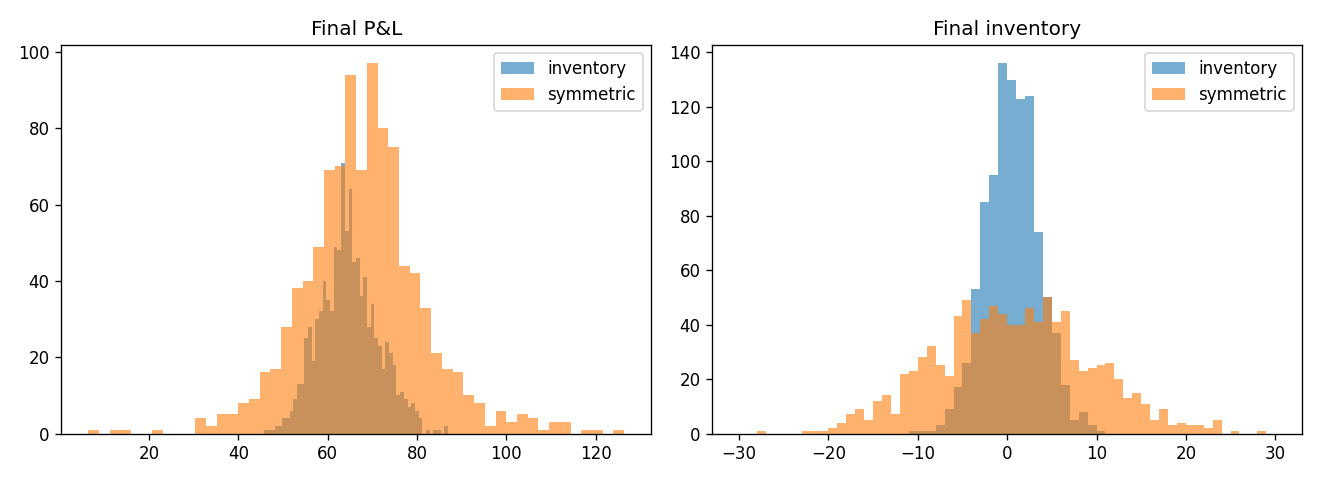
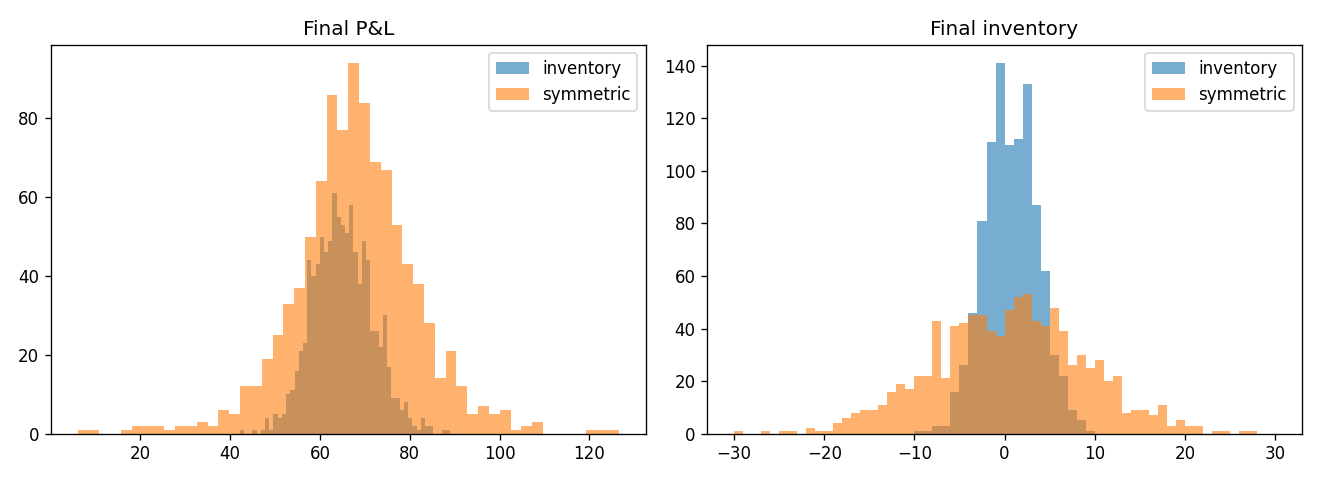
Add inventory path plot and update README results

diff --git a/avellaneda_stoikov/simulate.py b/avellaneda_stoikov/simulate.py
@@ -16,16 +16,18 @@ class SessionResult:
     n_trades: int
     avg_spread: float
     max_abs_q: int
+    q_path: list[int] | None = None
 
 # Simulates one session. Each step: (1) get our bid and ask from the strategy,
 # (2) roll for a fill on each side using fill_probability, (3) a bid fill buys one
 # (cash down, inventory +1) and an ask fill sells one (cash up, inventory -1),
 # (4) move the mid price by a random Brownian step. Final P&L is cash plus
 # inventory valued at the last mid price.
-def run_session(strategy: Strategy, p: Params, rng: np.random.Generator,max_inventory: int | None = None) -> SessionResult:
+def run_session(strategy: Strategy, p: Params, rng: np.random.Generator,max_inventory: int | None = None, record_path: bool = False) -> SessionResult:
     s, x, q = p.s0, 0.0, 0
     n_trades, spread_sum = 0, 0.0
     max_abs_q= 0
+    q_path: list[int] | None = [] if record_path else None
     for i in range(p.n_steps):
         t = i * p.dt
         bid, ask = strategy.quotes(s, q, t, p)
@@ -44,11 +46,13 @@ def run_session(strategy: Strategy, p: Params, rng: np.random.Generator,max_inve
                 x += ask
                 n_trades += 1
         max_abs_q = max(max_abs_q, abs(q))
+        if q_path is not None:
+            q_path.append(q)
         # Price moves after quotes are set (arithmetic Brownian motion, no drift).
         s += p.sigma * math.sqrt(p.dt) * rng.standard_normal()
 
 
-    return SessionResult(pnl=x + q * s, final_q=q, n_trades=n_trades,max_abs_q= max_abs_q,avg_spread=spread_sum / p.n_steps)
+    return SessionResult(pnl=x + q * s, final_q=q, n_trades=n_trades,max_abs_q= max_abs_q,avg_spread=spread_sum / p.n_steps, q_path=q_path)
 
 
 def run_many(strategy: Strategy, p: Params, n: int, seed: int = 0,max_inventory: int | None = None) -> list[SessionResult]:

diff --git a/run_experiments.py b/run_experiments.py
@@ -8,7 +8,7 @@ import matplotlib.pyplot as plt
 import numpy as np
 
 from avellaneda_stoikov.params import Params
-from avellaneda_stoikov.simulate import run_many
+from avellaneda_stoikov.simulate import run_many, run_session
 from avellaneda_stoikov.strategies import InventoryStrategy, SymmetricStrategy
 
 OUT = Path("figures")
@@ -52,3 +52,22 @@ for cap, rs in cap_results.items():
     spr = np.mean([r.avg_spread for r in rs])
     max_q = max(r.max_abs_q for r in rs)
     print(f"{str(cap):<8} {spr:7.2f} {pnl.mean():9.2f} {pnl.std():8.2f} {q.std():6.2f} {max_q:8d}")
+
+# Same random stream per session, with and without a hard inventory cap.
+fig, axes = plt.subplots(2, 2, figsize=(11, 8))
+time = np.arange(p.n_steps) * p.dt
+for i, ax in enumerate(axes.ravel()):
+    seed = 100 + i
+    uncapped = run_session(InventoryStrategy(), p, np.random.default_rng(seed), max_inventory=None, record_path=True)
+    capped = run_session(InventoryStrategy(), p, np.random.default_rng(seed), max_inventory=3, record_path=True)
+    ax.plot(time, uncapped.q_path, color="C0", label="no cap")
+    ax.plot(time, capped.q_path, color="C1", label="cap = 3")
+    ax.axhline(3, linestyle="--", color="gray")
+    ax.axhline(-3, linestyle="--", color="gray")
+    ax.set_xlabel("time")
+    ax.set_ylabel("inventory")
+    ax.set_title(f"Session {i}")
+handles, labels = axes[0, 0].get_legend_handles_labels()
+fig.legend(handles, labels, loc="upper center", ncol=2)
+fig.tight_layout(rect=(0, 0, 1, 0.95))
+fig.savefig(OUT / "inventory_paths.png", dpi=120)

diff --git a/tests/test_simulate.py b/tests/test_simulate.py
@@ -1,7 +1,7 @@
 import numpy as np
 
 from avellaneda_stoikov.params import Params
-from avellaneda_stoikov.simulate import run_many
+from avellaneda_stoikov.simulate import run_many, run_session
 from avellaneda_stoikov.strategies import InventoryStrategy, SymmetricStrategy
 
 P = Params()
@@ -27,3 +27,14 @@ def test_max_q_exceeds():
 def test_capped_inventory():
     q_test = run_many(InventoryStrategy(), P, 200, seed=1, max_inventory=5)
     assert max(r.max_abs_q for r in q_test) <= 5
+
+
+def test_record_path_does_not_change_results():
+    seed = 7
+    off = run_session(InventoryStrategy(), P, np.random.default_rng(seed), record_path=False)
+    on = run_session(InventoryStrategy(), P, np.random.default_rng(seed), record_path=True)
+    assert off.pnl == on.pnl
+    assert off.final_q == on.final_q
+    assert off.max_abs_q == on.max_abs_q
+    assert on.q_path is not None
+    assert len(on.q_path) == P.n_steps

diff --git a/README.md b/README.md
@@ -1,26 +1,31 @@
 # mm-sim: Avellaneda-Stoikov market making
-
-Week 1: reproduce Avellaneda & Stoikov (2008), "High-frequency trading in a limit order book", on simulated prices.
+A simulation of the Avellaneda-Stoikov market-making model: how quoting around an inventory-adjusted price cuts risk. Key result: about half the P&L risk for a ~4% lower mean P&L.
 
 ## Model
 - Reservation price: r = s - q·γ·σ²·(T - t)
 - Total spread: γ·σ²·(T - t) + (2/γ)·ln(1 + γ/k)
 - Fill chance per step for a quote δ from the mid: A·e^(-kδ)·dt
-- State (s, x, q, t) changes each step; settings (σ, γ, k, A, T, dt, s0) live in `mm/params.py`.
+- State (s, x, q, t) changes each step; settings (σ, γ, k, A, T, dt, s0) live in `avellaneda_stoikov/params.py`.
 
 ## Run
-    python -m venv .venv && source .venv/bin/activate   # Windows: .venv\Scripts\activate
+    python -m venv .venv && source .venv/bin/activate    # Windows: py -3.12 -m venv .venv, then .venv\Scripts\activate
     pip install -e ".[dev]"
     pytest
     python run_experiments.py   # prints the table and writes figures/
 
-## Results (1,000 sessions, paper parameters)
+## Results (1,000 sessions, paper parameters, seed 1)
+
 | Strategy | Spread | Mean P&L | Std P&L | Std final q |
 |---|---|---|---|---|
-| Inventory | 1.49 | 64.71 | 6.58 | 3.01 |
-| Symmetric | 1.49 | 67.92 | 13.55 | 8.60 |
+| Inventory | 1.49 | 65.04 | 6.63 | 2.93 |
+| Symmetric | 1.49 | 67.80 | 13.70 | 8.45 |
+
+![Final P&L and inventory](figures/pnl_and_inventory.png)
+
+![Risk vs. return as gamma changes](figures/gamma_sweep.png)
 
 The inventory strategy gives up about 3 in mean P&L to cut P&L risk roughly in half, matching the paper.
+
 
 ## Inventory caps
 
@@ -32,6 +37,10 @@ The inventory-aware strategy already pulls its quotes back toward zero inventory
 | 10            | 1.49      | 65.04    | 6.63    | 2.92                | 10                |
 | 5             | 1.49      | 64.89    | 6.62    | 2.62                | 5                 |
 | 3             | 1.49      | 63.86    | 6.50    | 1.91                | 3                 |
+
+![Inventory over time, capped vs. uncapped](figures/inventory_paths.png)
+
+Same four sessions, same random prices, with and without a cap of 3. The lines match until the uncapped inventory crosses 3; after that the capped run stops quoting that side and stays inside the band.
 
 **What I found:**
 - A cap of 10 barely matters. It only clips the one session that got to 11.
